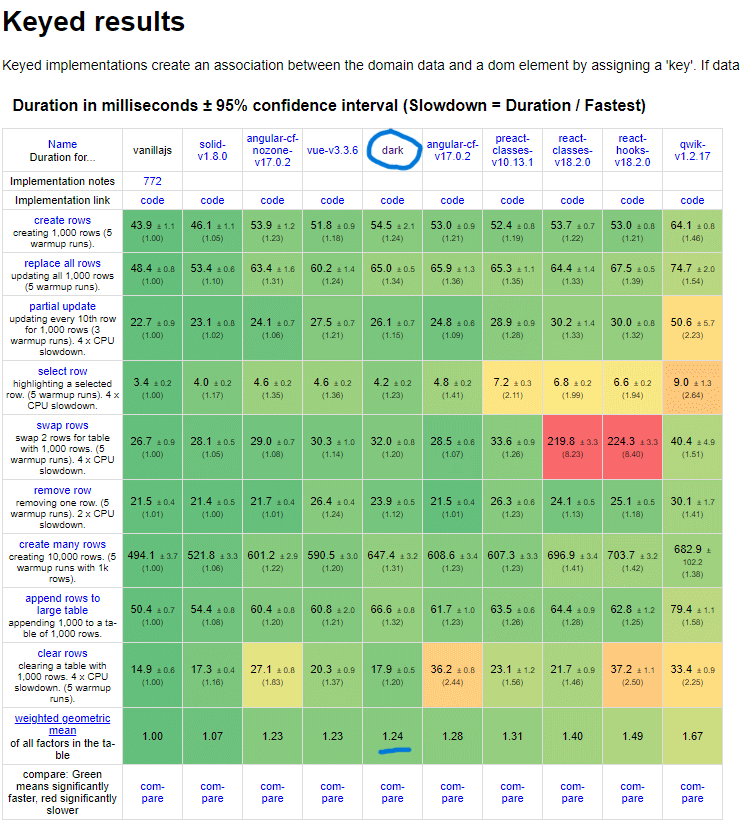
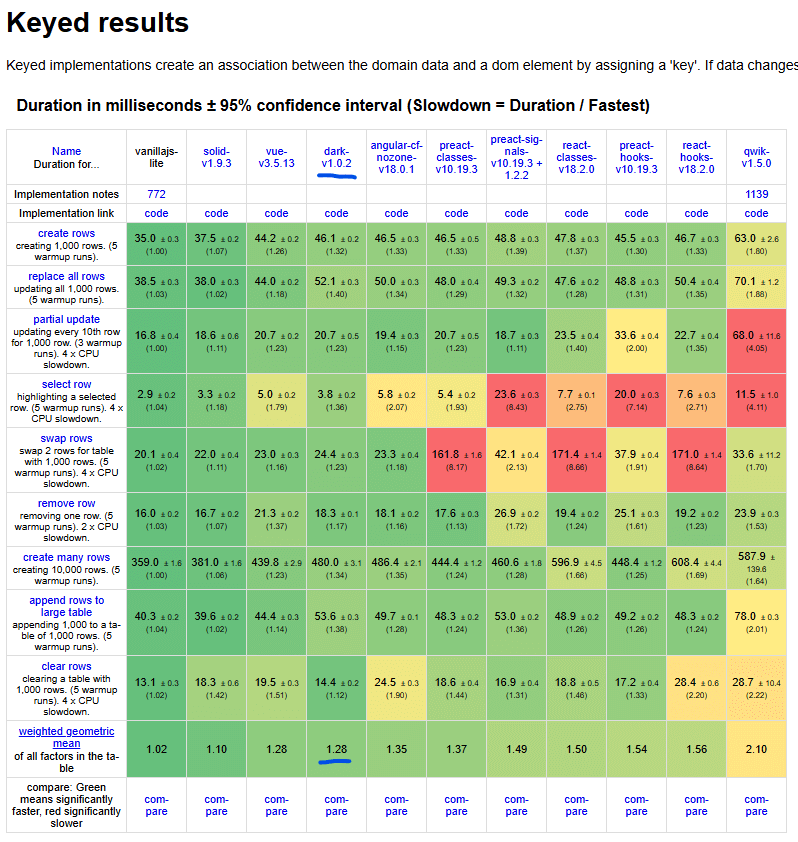
docs: update bench results

diff --git a/README.md b/README.md
@@ -149,11 +149,11 @@ createRoot(document.getElementById('root')).render(App());
 
 ## Benchmark
 
-[js-framework-benchmark](https://krausest.github.io/js-framework-benchmark/2024/table_chrome_123.0.6312.59.html)
+[js-framework-benchmark](https://krausest.github.io/js-framework-benchmark/2024/table_chrome_131.0.6778.85.html)
 
 <img src="./assets/bench.png">
 
-Based on the benchmark results (on the my machine), Dark is approximately 24% slower than the reference `vanillajs implementation`, yet it outperforms both React and Preact.
+Based on the benchmark results, Dark is approximately 28% slower than the reference `vanillajs-lite implementation`, yet it outperforms Angular, React and Preact.
 
 ## Lighthouse
 
